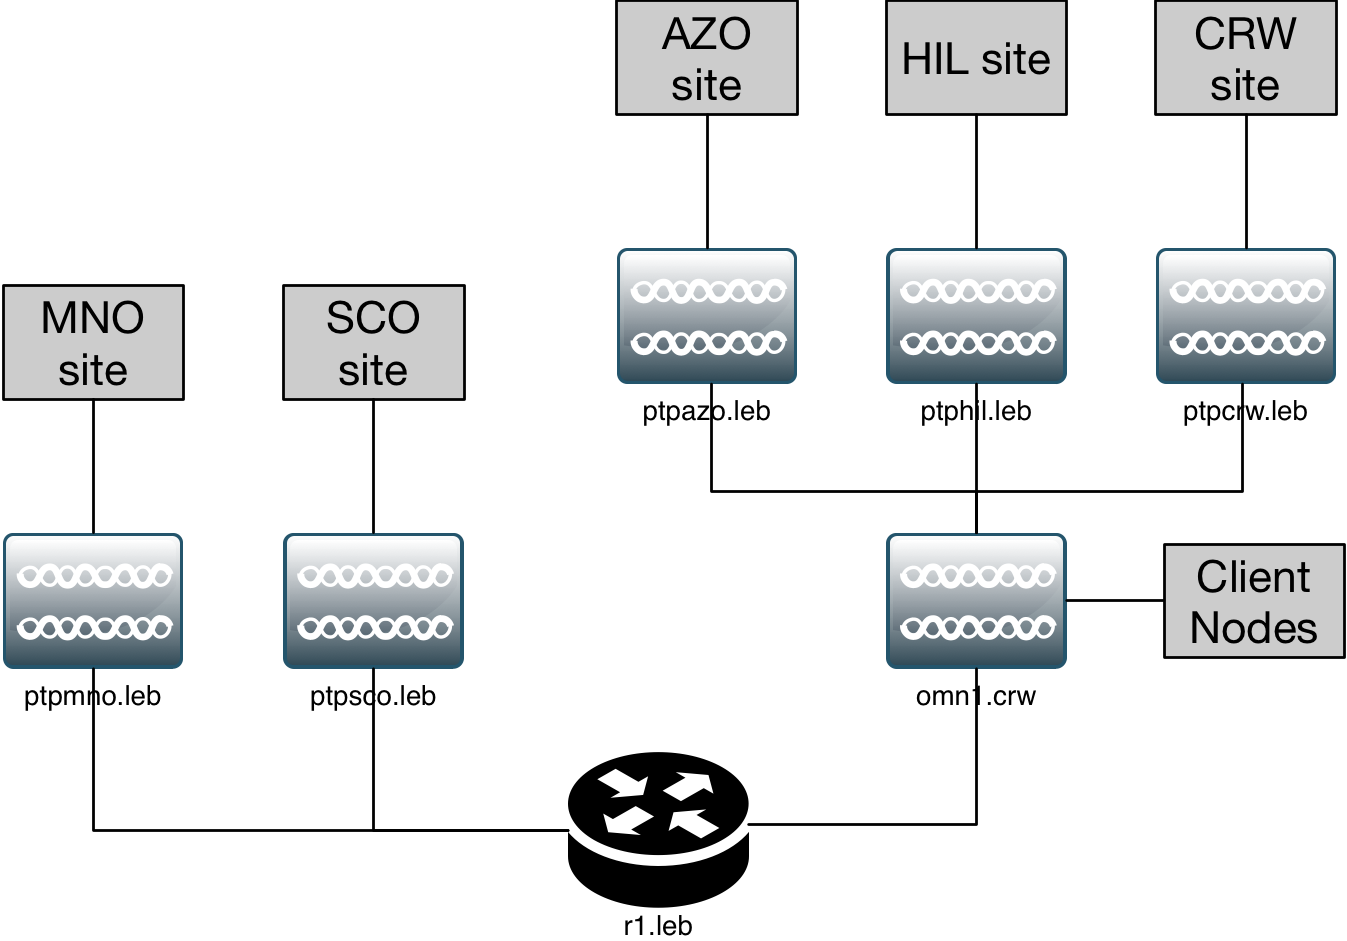
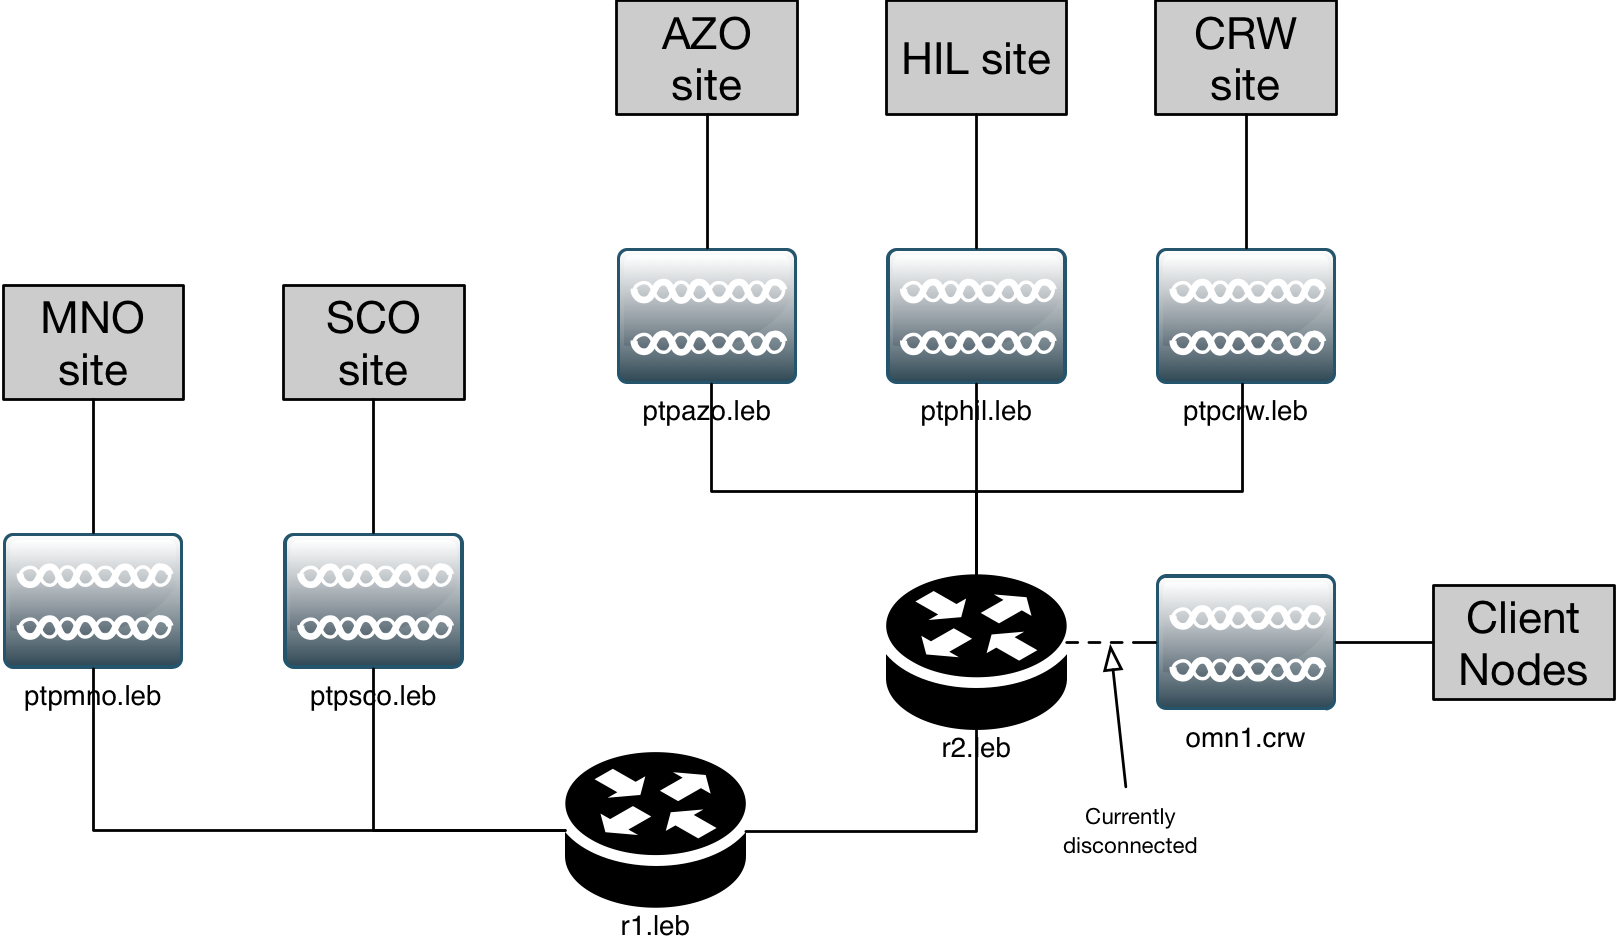
Updated to reflect the newly added powerbox

diff --git a/leb/safety_and_engineering_binder.rst b/leb/safety_and_engineering_binder.rst
@@ -42,12 +42,18 @@ Physical Devices (Layer 1)
   :alt: Layer 1 network diagram
 
   Layer 1 network diagram
-  
+
 .. csv-table:: Site Assets
    :header-rows: 1
 
-   Make,Model,Serial #,Asset Tag
-   ,,,
+   Make,Model,Serial #,Asset Tag,ID
+   MikroTik,RouterBOARD 750P r2,67D6067705D7,,r2.leb
+   MikroTik,921UAGS-5SHPacT,5AB804FBF815,,ptphil.leb
+   MikroTik,921UAGS-5SHPacT,6208042A4662,,ptpmno.leb
+   MikroTik,921UAGS-5SHPacT,5AB804B61699,,ptpcrw.leb
+   MikroTik,SXT G-5HPacD,54810467F26C,,ptpazo.leb
+   MikroTik,CRS125-24G-1S,5240040DE39C,,r1.leb
+
 
 Network Hosts (Layer 3)
 -----------------------
@@ -84,6 +90,7 @@ Network Hosts (Layer 3)
       stream.leb.memhamwan.net,eth0.stream.leb.memhamwan.net,44.34.128.178/27
       voip.leb.memhamwan.net,eth0.voip.leb.memhamwan.net,44.34.128.173/27
       vrrp.leb.memhamwan.net,vrrp.vrrp.leb.memhamwan.net,44.34.128.174/27
+      r2.leb.memhamwan.net,ether1.r2.leb.memhamwan.net,44.34.128.162/27
 
 Cabling and Housing Subsystem
 -----------------------------
@@ -115,9 +122,9 @@ Spectrum Plan
 -------------
 Work in progress...
 
-* *ptphil.leb* 5200 MHz 20/40mhz-eC
-* *ptpmno.leb* 5230 MHz 20/40mhz-eC
-* *ptpcrw.leb* 5765 MHz 20/40mhz-eC
+* *ptphil.leb* 5765 MHz 20mhz
+* *ptpmno.leb* 5230 MHz 20mhz
+* *ptpcrw.leb* 5200 MHz 20mhz
 * *ptpazo.leb* 5795 MHz 20/40mhz-eC
 * *ptpsco.leb* 5825 MHz 20mhz
 
